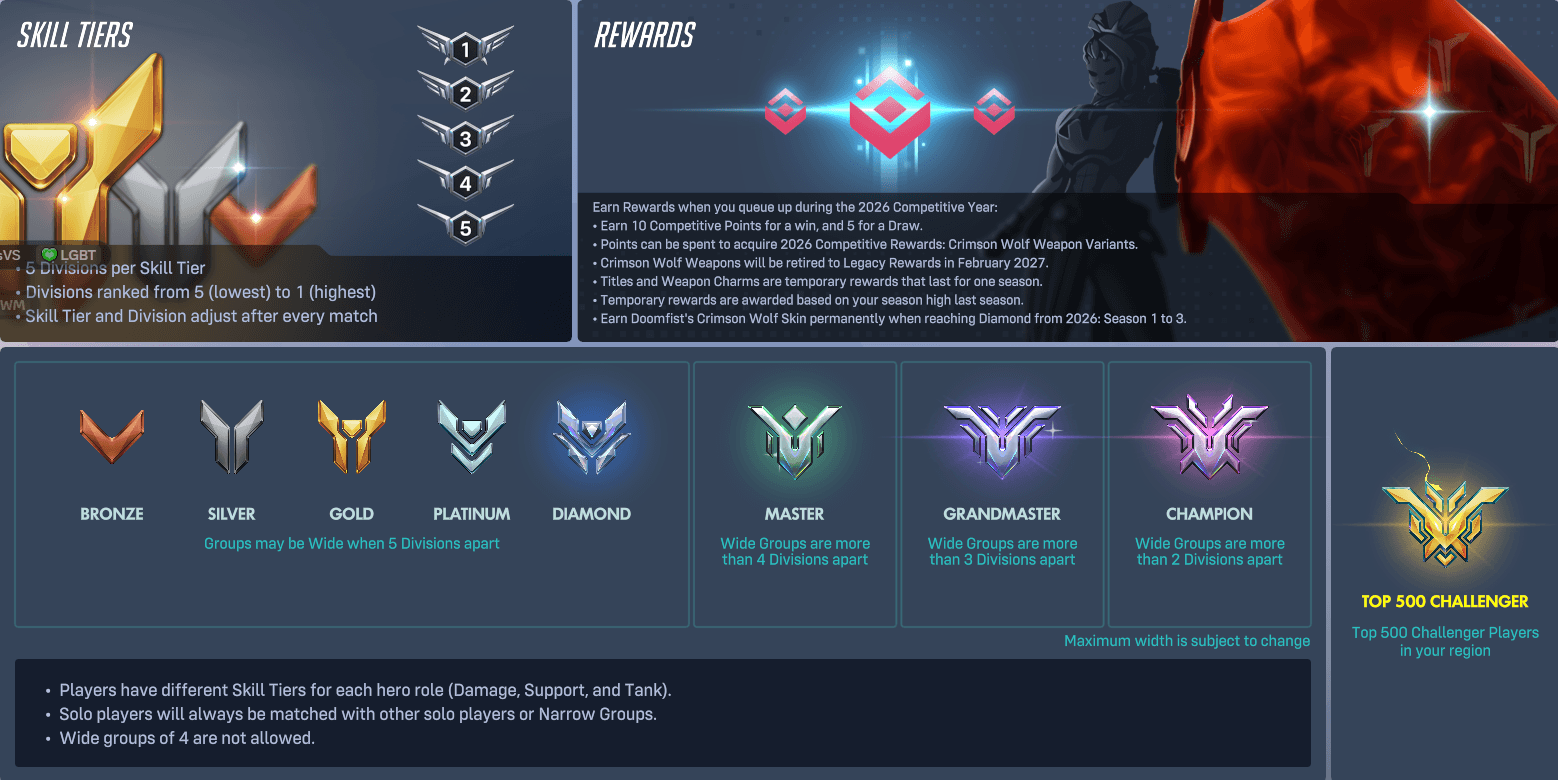
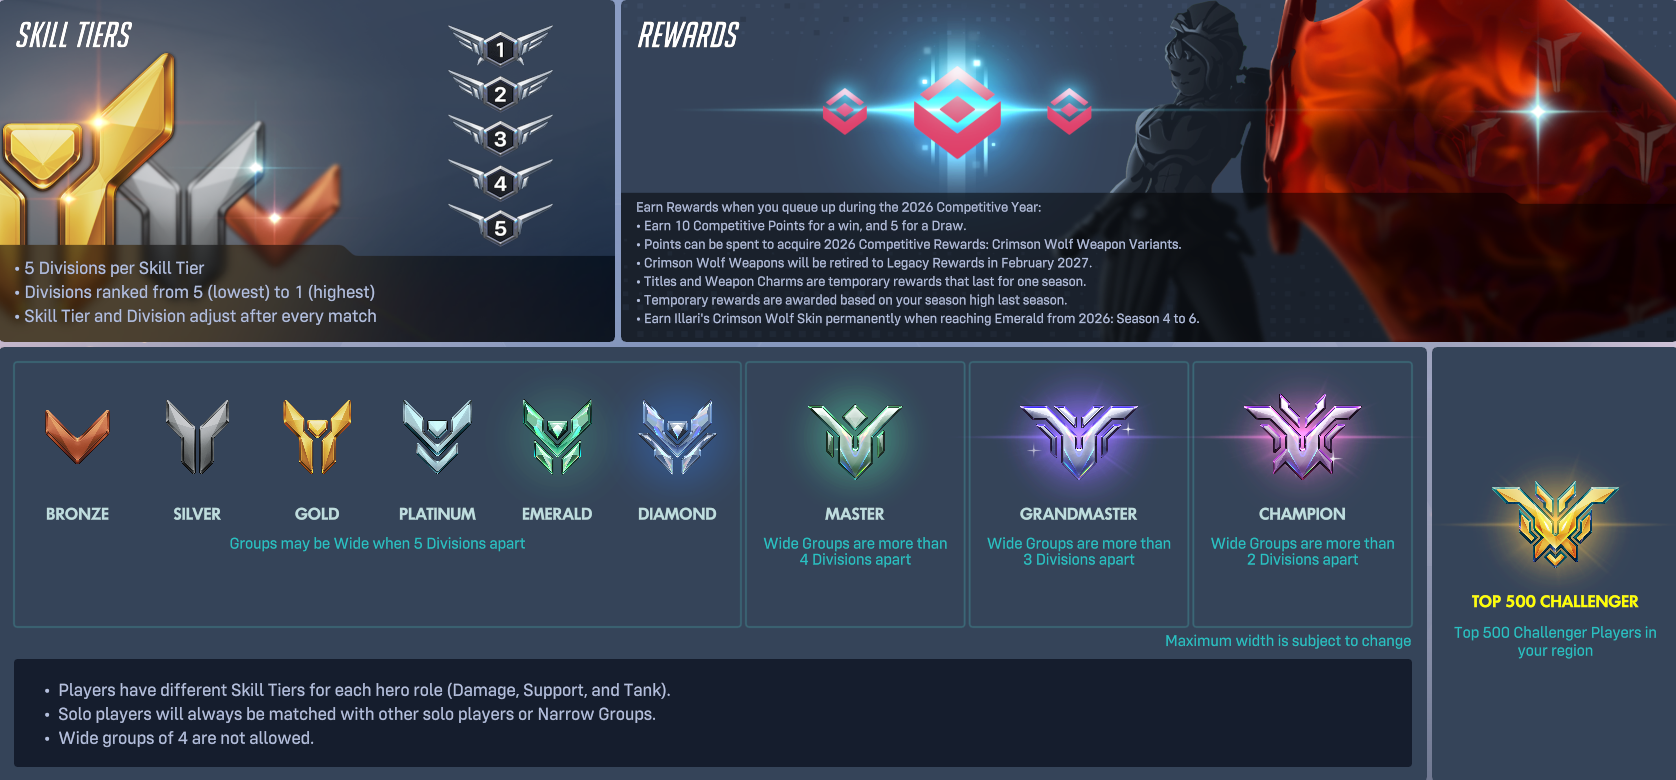
Add Emerald rank to Competitive Guide tier lists
Reflects the updated competitive-overview.png, which now shows
Emerald between Platinum and Diamond. Updates the Overview skill
tier list and Hero SR threshold bands to match.

diff --git a/src/components/CompetitiveGuide.jsx b/src/components/CompetitiveGuide.jsx
@@ -17,7 +17,7 @@ const SECTIONS = [
     intro:
       "Competitive Play is Overwatch's ranked mode where every match contributes to a visible skill rank. There are two queue types: Role Queue (separate Tank, Damage, and Support ranks) and Open Queue (a single universal rank). Seasons run for approximately eight to nine weeks, and your rank resets at the start of each new season.",
     details: [
-      "Eight skill tiers in ascending order: Bronze, Silver, Gold, Platinum, Diamond, Master, Grandmaster, and Champion.",
+      "Nine skill tiers in ascending order: Bronze, Silver, Gold, Platinum, Emerald, Diamond, Master, Grandmaster, and Champion.",
       "Each tier (except Champion) contains five numbered divisions — Division 5 is the lowest entry point; reaching Division 1 promotes you to the next tier.",
       "Champion sits above Grandmaster 1 and has no numbered divisions.",
       "Matchmaking uses a hidden MMR (Matchmaking Rating). The visible progress bar and division are a display layer on top of this underlying value.",
@@ -38,7 +38,7 @@ const SECTIONS = [
       "Five placement matches per hero are required to unlock its official Hero SR. A Predicted SR preview is shown during the placement phase.",
       "Hero SR is tracked separately between Role Queue and Open Queue — each mode maintains independent values per hero.",
       "Hero SR resets at every mid-year rank reset.",
-      "Tier thresholds — Bronze: 0–1,499 · Silver: 1,500–1,999 · Gold: 2,000–2,499 · Platinum: 2,500–2,999 · Diamond: 3,000–3,499 · Master: 3,500–3,999 · Grandmaster: 4,000–4,499 · Champion: 4,500–5,000.",
+      "Tier thresholds — Bronze: 0–999 · Silver: 1,000–1,499 · Gold: 1,500–1,999 · Platinum: 2,000–2,499 · Emerald: 2,500–2,999 · Diamond: 3,000–3,499 · Master: 3,500–3,999 · Grandmaster: 4,000–4,499 · Champion: 4,500–5,000.",
     ],
     image: heroSrImg,
   },
